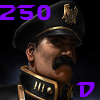
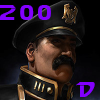
Battlecruiser and SCV
Battlecruiser cost reduced to 200. SCV generation back to 25

Changed region(s): [[0.15, 0.03, 0.51, 0.21]]

diff --git a/mouse.js b/mouse.js
@@ -56,7 +56,7 @@ Mouse.prototype.setMap = function(gameMap) {
     this.map = gameMap;
 }
 
-Mouse.prototype.newLevel = function (map) {
+Mouse.prototype.newLevel = function(map) {
     this.resources.scv = -50;
     this.ui.drawSCVImage(this.resources.scv);
     this.map = map;
@@ -107,7 +107,7 @@ Mouse.prototype.dropTower = function(e) {
             defenderKey = 's';
             break;
         case "battlecruiser":
-            this.unitCost = 250;
+            this.unitCost = 200;
             defenderKey = 'd';
             break;
         case "antiair":
@@ -175,7 +175,7 @@ Mouse.prototype.attachListeners = function() {
 
     //On mouse click, check if button was selected (isBusy = true), if so drop tower on click location
     that.canvas.addEventListener("click", (e) => {
-        
+
         if (that.isBusy && !that.isMoving && !(that.gameEngine.getPauseBool())) {
             that.dropTower(e);
             that.ctx2.clearRect(0, 0, that.canvas2.width, that.canvas2.height);

diff --git a/scv.js b/scv.js
@@ -42,7 +42,7 @@ SCV.prototype.update = function() {
 
     if (this.atBase()) {
         this.changeDirection("west");
-        this.UI.resourceAdjust(40);
+        this.UI.resourceAdjust(25);
         //adds 50 minerals to resources
         this.moveWest();
     } else if (this.atMineral()) {
